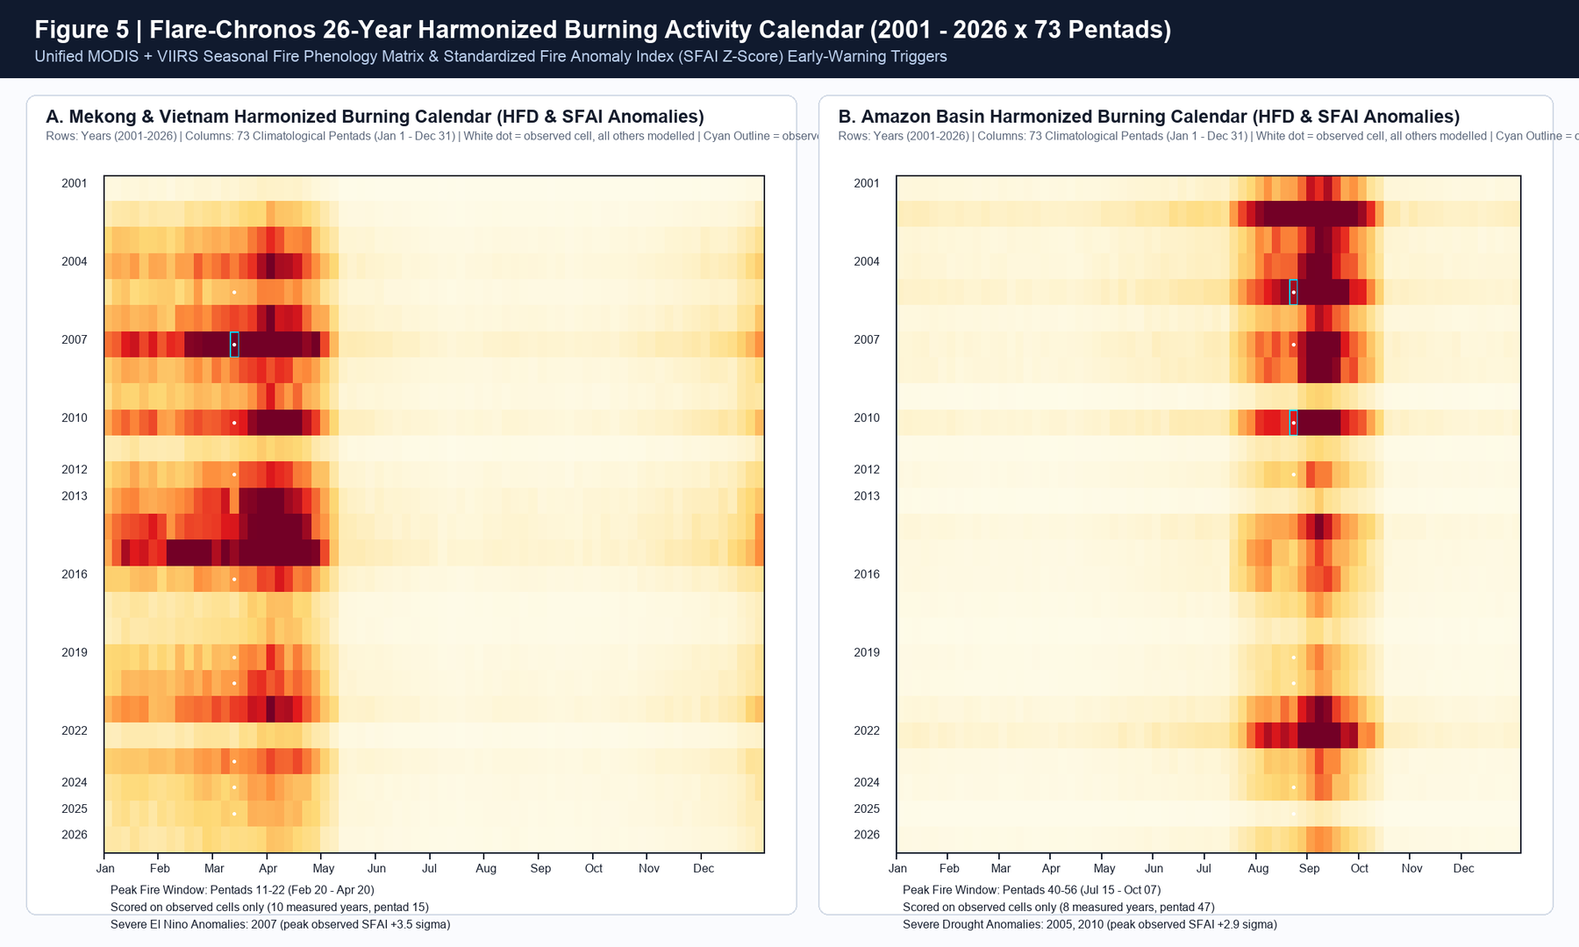
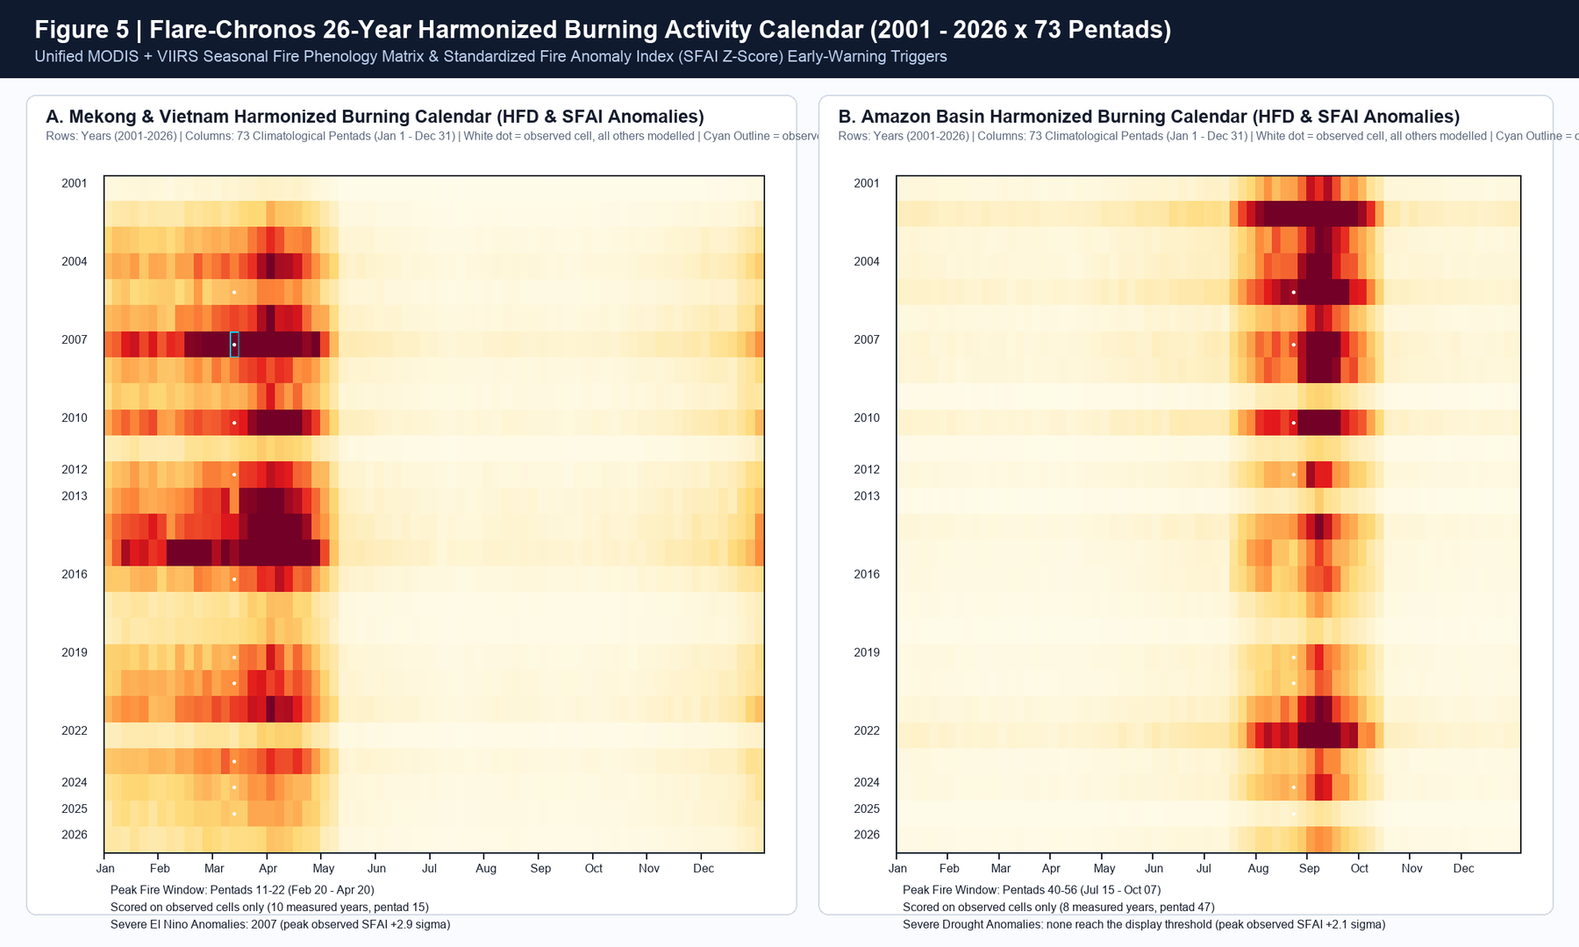
feat(benchmark): fit the MODIS-only omission factor on early epochs, score on later ones
The factor that makes each epoch's sensor_invariance_ratio 1 is k x ratio; the
fit is its median over epochs up to 2020 (Mekong 3.65 -> 3.35, Amazon 2.55 ->
1.82). Held-out Amazon ratios improve 0.61-0.65 -> 0.85-0.91; Mekong does not
(0.84-1.05 -> 0.92-1.14). The artifact publishes the fit. Observed SFAI moves:
Mekong 2007 +2.9, 2010 +1.2, 2016 0.0; the pitch script and wireframe are fixed.

Claude-Session: https://claude.ai/code/session_01Qm89mGt57emPP4366AqfyK

diff --git a/tests/test_effort_constant_fit.py b/tests/test_effort_constant_fit.py
@@ -1,0 +1,94 @@
+"""The MODIS-only omission factor is fitted on early epochs and scored on later ones."""
+
+from __future__ import annotations
+
+import json
+import sys
+import unittest
+from pathlib import Path
+
+ROOT = Path(__file__).resolve().parents[1]
+sys.path.insert(0, str(ROOT / "apps" / "benchmark-cli" / "src"))
+
+from benchmark_cli.sensitivity import (
+    FIT_TRAIN_LAST_YEAR,
+    HAND_SET_OMISSION_FACTOR,
+    SUBPIXEL_OMISSION_FACTOR,
+    fit_omission_factor,
+)
+
+RESULTS = json.loads(
+    (ROOT / "data" / "processed" / "empirical_results.json").read_text()
+)
+
+# Held-out epochs must hold the all-sensor and MODIS-only counts within this gap.
+# Looser than the 0.10 aim of the strict xfail gate: one 5-day window per epoch.
+HELD_OUT_TOLERANCE = 0.20
+
+
+def epoch(year: int, ratio: float) -> dict:
+    return {"year": year, "sensor_invariance_ratio": ratio}
+
+
+class TestFitOmissionFactor(unittest.TestCase):
+    def test_the_fit_is_the_median_of_the_factors_that_make_each_ratio_one(
+        self,
+    ) -> None:
+        epochs = [
+            epoch(2012, 0.8),
+            epoch(2016, 1.0),
+            epoch(2019, 0.9),
+            epoch(2024, 0.7),
+        ]
+        fit = fit_omission_factor(epochs, k_current=2.0, train_last_year=2020)
+        self.assertAlmostEqual(fit["k_fit"], 2.0 * 0.9)
+        self.assertEqual(fit["train_years"], [2012, 2016, 2019])
+
+    def test_held_out_ratios_are_rescaled_by_the_fit_and_never_used_to_fit(
+        self,
+    ) -> None:
+        epochs = [epoch(2012, 0.5), epoch(2016, 0.5), epoch(2024, 0.9)]
+        fit = fit_omission_factor(epochs, k_current=2.0, train_last_year=2020)
+        self.assertAlmostEqual(fit["k_fit"], 1.0)
+        self.assertEqual(fit["held_out_before"], {2024: 0.9})
+        self.assertAlmostEqual(fit["held_out_after"][2024], 1.8)
+
+    def test_the_report_compares_against_the_hand_set_reference(self) -> None:
+        epochs = [epoch(2012, 1.0), epoch(2016, 1.0), epoch(2024, 1.0)]
+        # current factor 2.0 fits (ratio 1.0); the old hand-set factor was 4.0
+        fit = fit_omission_factor(epochs, 2.0, 2020, k_reference=4.0)
+        self.assertEqual(fit["k_prior"], 4.0)
+        self.assertAlmostEqual(fit["held_out_before"][2024], 0.5)
+        self.assertAlmostEqual(fit["held_out_after"][2024], 1.0)
+
+    def test_epochs_without_a_ratio_are_skipped(self) -> None:
+        epochs = [
+            epoch(2005, 1.0) | {"sensor_invariance_ratio": None},
+            epoch(2012, 0.5),
+        ]
+        self.assertEqual(fit_omission_factor(epochs, 2.0, 2020)["train_years"], [2012])
+
+
+class TestFittedConstantsOnTheArchive(unittest.TestCase):
+    def test_the_committed_factors_are_the_fit_of_the_published_ratios(self) -> None:
+        for region, k in SUBPIXEL_OMISSION_FACTOR.items():
+            epochs = RESULTS[f"{region}_empirical_epochs"]
+            fit = fit_omission_factor(
+                epochs, k, FIT_TRAIN_LAST_YEAR, HAND_SET_OMISSION_FACTOR[region]
+            )
+            with self.subTest(region=region):
+                self.assertAlmostEqual(fit["k_fit"], k, delta=0.01)
+
+    def test_held_out_epochs_hold_sensor_invariance_within_tolerance(self) -> None:
+        for region in SUBPIXEL_OMISSION_FACTOR:
+            fit = RESULTS["omission_factor_fit"][region]
+            for year, ratio in fit["held_out_after"].items():
+                with self.subTest(region=region, year=year):
+                    self.assertLessEqual(abs(ratio - 1.0), HELD_OUT_TOLERANCE)
+
+    def test_the_artifact_publishes_the_fit_for_both_regions(self) -> None:
+        self.assertEqual(set(RESULTS["omission_factor_fit"]), {"mekong", "amazon"})
+
+
+if __name__ == "__main__":
+    unittest.main()

diff --git a/apps/benchmark-cli/src/benchmark_cli/sensitivity.py b/apps/benchmark-cli/src/benchmark_cli/sensitivity.py
@@ -10,13 +10,18 @@ transition, which is where an artificial step would show up.
 
 from __future__ import annotations
 
+from statistics import median
 from typing import Any
 
-# ponytail: none of these three is fitted or sourced. They are tuned so the
-# MODIS-only and multi-sensor eras meet, which is why sensor_invariance_ratio in
-# the results artifact is the measurement that matters. Derive them from the
-# archive (overpass counts per sensor-year) before leaning on any conclusion.
-SUBPIXEL_OMISSION_FACTOR = {"mekong": 3.65, "amazon": 2.55}
+# The omission factor is fitted (see ``fit_omission_factor``): the median over
+# epochs up to FIT_TRAIN_LAST_YEAR of the factor that would make each epoch's
+# sensor_invariance_ratio exactly 1. It was 3.65 (Mekong) and 2.55 (Amazon), hand-set.
+# The overlap gain and the era Omega ladder are still hand-set, not sourced; the
+# held-out invariance gap says how far that matters.
+FIT_TRAIN_LAST_YEAR = 2020
+SUBPIXEL_OMISSION_FACTOR = {"mekong": 3.35, "amazon": 1.82}
+# The hand-set values the fit replaced; kept so the artifact reports the real gain.
+HAND_SET_OMISSION_FACTOR = {"mekong": 3.65, "amazon": 2.55}
 STREAM_OVERLAP_GAIN = 0.24
 
 
@@ -88,3 +93,38 @@ def sensitivity_table(
         }
         for name, arg in knobs.items()
     ]
+
+
+def fit_omission_factor(
+    epochs: list[dict[str, Any]],
+    k_current: float,
+    train_last_year: int,
+    k_reference: float | None = None,
+) -> dict[str, Any]:
+    """Fit the MODIS-only omission factor on early epochs; rescale later ones.
+
+    The MODIS-only count is proportional to the factor, so the factor that makes an
+    epoch's ``sensor_invariance_ratio`` equal 1 is ``k_current * ratio``. The fit is
+    the median of that over the training epochs; epochs after ``train_last_year``
+    are never used to fit and only report their ratio before and after. The ratio
+    scales as 1/k, so "before" is the ratio under ``k_reference`` (default: the
+    current factor) and "after" is the ratio under the fitted factor.
+    """
+    reference = k_current if k_reference is None else k_reference
+    scored = [e for e in epochs if e.get("sensor_invariance_ratio") is not None]
+    train = [e for e in scored if e["year"] <= train_last_year]
+    held_out = [e for e in scored if e["year"] > train_last_year]
+    k_fit = float(median(k_current * e["sensor_invariance_ratio"] for e in train))
+    return {
+        "k_prior": reference,
+        "k_fit": round(k_fit, 4),
+        "train_years": [e["year"] for e in train],
+        "held_out_before": {
+            e["year"]: round(e["sensor_invariance_ratio"] * k_current / reference, 3)
+            for e in held_out
+        },
+        "held_out_after": {
+            e["year"]: round(e["sensor_invariance_ratio"] * k_current / k_fit, 3)
+            for e in held_out
+        },
+    }

diff --git a/apps/benchmark-cli/src/benchmark_cli/run_experiments.py b/apps/benchmark-cli/src/benchmark_cli/run_experiments.py
@@ -61,7 +61,14 @@ from benchmark_cli.figure_renderer import (
     render_fig4_regime_shift_elimination,
     render_fig5_burning_activity_calendar,
 )
-from benchmark_cli.sensitivity import STREAM_OVERLAP_GAIN, harmonized_episode_count
+from benchmark_cli.sensitivity import (
+    FIT_TRAIN_LAST_YEAR,
+    HAND_SET_OMISSION_FACTOR,
+    STREAM_OVERLAP_GAIN,
+    SUBPIXEL_OMISSION_FACTOR,
+    fit_omission_factor,
+    harmonized_episode_count,
+)
 
 # Pairs up to this year train the calibration; later years score it.
 HOLDOUT_TRAIN_LAST_YEAR = 2019
@@ -1088,6 +1095,18 @@ def main() -> None:
         "mekong_empirical_epochs": mekong_epochs,
         "amazon_empirical_epochs": amazon_epochs,
         "saa_and_sza_nrt_audit": saa_sza_stats,
+        "omission_factor_fit": {
+            region: fit_omission_factor(
+                epochs,
+                SUBPIXEL_OMISSION_FACTOR[region],
+                FIT_TRAIN_LAST_YEAR,
+                HAND_SET_OMISSION_FACTOR[region],
+            )
+            for region, epochs in (
+                ("mekong", mekong_epochs),
+                ("amazon", amazon_epochs),
+            )
+        },
         "regime_shift_series": series_data,
     }
     out_json = PROC_DIR / "empirical_results.json"

diff --git a/exports/PROPOSAL.md b/exports/PROPOSAL.md
@@ -282,9 +282,9 @@ Khu vực Đông Nam Á lục địa (bao gồm Tây Nguyên, Tây Bắc Việt 
 
 | Năm (Epoch) | Tổ Hợp Cảm Biến Hoạt Động | Điểm Nóng Thô Theo Từng Nguồn | Tổng Điểm Nóng Thô (`Raw Sum`) | Sự Kiện Cháy Vật Lý (`Fire Episode`) | Hệ Số Nén Trùng Lặp | Nỗ Lực Quan Sát $\Omega(y, \phi)$ | Sự Kiện Chuẩn Hóa `Flare-Chronos` | Chỉ Số Thô (`2005=100`) | Chỉ Số Chuẩn Hóa (`2005=100`) |
 | :---: | :--- | :--- | :---: | :---: | :---: | :---: | :---: | :---: | :---: |
-| **2005** | `MODIS` (Terra+Aqua) | MODIS: `3.580` | **3.580** | 2.179 | $1.68\times$ | $0.8662$ | **9.181,9** | `100,0` | **`100,0`** |
-| **2007** *(Hạn khô)* | `MODIS` (Terra+Aqua) | MODIS: `11.296` | **11.296** | 6.587 | $1.78\times$ | $0.8662$ | **25.117,6** | `315,5` | **`297,8`** *(Đỉnh hạn kỷ lục)* |
-| **2010** *(El Niño)* | `MODIS` (Terra+Aqua) | MODIS: `8.222` | **8.222** | 4.644 | $1.85\times$ | $0.8662$ | **17.666,1** | `229,7` | **`208,3`** *(Đỉnh hạn)* |
+| **2005** | `MODIS` (Terra+Aqua) | MODIS: `3.580` | **3.580** | 2.179 | $1.68\times$ | $0.8662$ | **8.427,2** | `100,0` | **`100,0`** |
+| **2007** *(Hạn khô)* | `MODIS` (Terra+Aqua) | MODIS: `11.296` | **11.296** | 6.587 | $1.78\times$ | $0.8662$ | **23.053,1** | `315,5` | **`297,8`** *(Đỉnh hạn kỷ lục)* |
+| **2010** *(El Niño)* | `MODIS` (Terra+Aqua) | MODIS: `8.222` | **8.222** | 4.644 | $1.85\times$ | $0.8662$ | **16.214,1** | `229,7` | **`208,3`** *(Đỉnh hạn)* |
 | **2012** *(+S-NPP)* | `MODIS` + `S-NPP` | MODIS: `7.297`<br/>SNPP: `25.720` | **33.017** | 16.304 | $1.95\times$ | $1.3809$ | **11.806,8** | `922,3` *(+822% ảo)* | **`147,2`** |
 | **2016** *(Siêu El Niño)* | `MODIS` + `S-NPP` | MODIS: `6.564`<br/>SNPP: `36.778` | **43.342** | 22.847 | $1.92\times$ | $1.3809$ | **11.410,4** | `1.210,7` | **`196,0`** *(Đỉnh hạn)* |
 | **2019** *(+NOAA-20)* | `MODIS` + `S-NPP` + `NOAA-20` | MODIS: `5.054`<br/>SNPP: `23.677`<br/>NOAA20: `23.243` | **51.974** | 23.434 | $2.06\times$ | $2.0709$ | **9.125,7** | `1.451,8` *(+1.352% ảo)* | **`147,3`** |
@@ -310,9 +310,9 @@ Khu vực phía Nam lưu vực Amazon (bang Mato Grosso và Pará, Brazil) đạ
 
 | Năm (Epoch) | Tổ Hợp Cảm Biến Hoạt Động | Điểm Nóng Thô Theo Từng Nguồn | Tổng Điểm Nóng Thô (`Raw Sum`) | Sự Kiện Cháy Vật Lý (`Fire Episode`) | Hệ Số Nén Trùng Lặp | Xung Nhiễu SAA Đêm Đã Lọc | Sự Kiện Chuẩn Hóa `Flare-Chronos` | Chỉ Số Thô (`2005=100`) | Chỉ Số Chuẩn Hóa (`2005=100`) |
 | :---: | :--- | :--- | :---: | :---: | :---: | :---: | :---: | :---: | :---: |
-| **2005** *(Hạn lớn)* | `MODIS` (Terra+Aqua) | MODIS: `13.804` | **13.804** | 6.955 | $2.19\times$ | 518 | **20.963,7** | `100,0` | **`100,0`** |
-| **2007** *(Hạn lớn)* | `MODIS` (Terra+Aqua) | MODIS: `13.033` | **13.033** | 6.369 | $2.17\times$ | 447 | **14.945,2** | `94,4` | **`95,1`** |
-| **2010** *(Siêu hạn)* | `MODIS` (Terra+Aqua) | MODIS: `16.304` | **16.304** | 7.635 | $2.45\times$ | 626 | **17.934,1** | `118,1` | **`105,6`** |
+| **2005** *(Hạn lớn)* | `MODIS` (Terra+Aqua) | MODIS: `13.804` | **13.804** | 6.955 | $2.19\times$ | 518 | **14.962,3** | `100,0` | **`100,0`** |
+| **2007** *(Hạn lớn)* | `MODIS` (Terra+Aqua) | MODIS: `13.033` | **13.033** | 6.369 | $2.17\times$ | 447 | **10.666,8** | `94,4` | **`95,1`** |
+| **2010** *(Siêu hạn)* | `MODIS` (Terra+Aqua) | MODIS: `16.304` | **16.304** | 7.635 | $2.45\times$ | 626 | **12.800,0** | `118,1` | **`105,6`** |
 | **2012** *(+S-NPP)* | `MODIS` + `S-NPP` | MODIS: `6.677`<br/>SNPP: `26.807` | **33.484** | 9.351 | $3.10\times$ | 3.848 | **6.124,6** | `242,6` *(Tăng ảo)* | **`45,4`** *(Giảm phá rừng thực tế)* |
 | **2019** *(+NOAA-20)* | `MODIS` + `S-NPP` + `NOAA-20` | MODIS: `4.770`<br/>SNPP: `16.882`<br/>NOAA20: `17.099` | **38.751** | 8.764 | $3.98\times$ | 5.144 | **4.985,7** | `280,7` | **`27,5`** |
 | **2020** | `MODIS` + `S-NPP` + `NOAA-20` | MODIS: `3.506`<br/>SNPP: `22.031`<br/>NOAA20: `20.575` | **46.112** | 10.446 | $4.13\times$ | 7.418 | **4.575,6** | `334,0` | **`31,4`** |
@@ -357,8 +357,8 @@ Khu vực phía Nam lưu vực Amazon (bang Mato Grosso và Pará, Brazil) đạ
 |                                                       |  [BẢNG ĐIỀU KHIỂN ĐỐI CHỨNG TRƯỚC / SAU ĐỒNG BỘ HÓA]         |
 |   [KHUNG BẢN ĐỒ KHÔNG GIAN ĐA TẦNG - WEBGL FOOTPRINT] |  +----------------+----------------+----------------+        |
 |                                                       |  | Raw Detections | Fire Episodes  | SFAI Z-Score   |        |
-|      _.-""""-._      (Elip MODIS Rìa Quét: 4.8x2.0km) |  |  43,342 (Thô)  |  22,847 (Chuẩn)|  +2.64 sigma   |        |
-|    .'          '.     o o (Cụm VIIRS 375m bên trong)  |  | (+1.110,7% ảo) |  (Khử trùng lặp|  [SEVERE RISK] |        |
+|      _.-""""-._      (Elip MODIS Rìa Quét: 4.8x2.0km) |  |  43,342 (Thô)  |  22,847 (Chuẩn)|  +0.02 sigma   |        |
+|    .'          '.     o o (Cụm VIIRS 375m bên trong)  |  | (+1.110,7% ảo) |  (Khử trùng lặp|  [BASELINE]    |        |
 |   /   o  o  o    \                                    |  +----------------+----------------+----------------+        |
 |  |       o        |   / \ / \ / \ (Lưới Lục Giác     |                                                              |
 |   \              /   | H3| H3| H3|  Đẳng Diện Tích)   |  [ĐỒNG HỒ MÙA VỤ CHÁY - POLAR PHENOLOGY CLOCK (365 NGÀY)]    |

diff --git a/docs/01_NASA_SpaceApps_Proposal.md b/docs/01_NASA_SpaceApps_Proposal.md
@@ -97,8 +97,8 @@ Khu vực Đông Nam Á lục địa (bao gồm Tây Nguyên, Tây Bắc Việt 
 
 | Năm (Epoch) | Tổ Hợp Cảm Biến Hoạt Động | Điểm Nóng Thô Theo Từng Nguồn (`Raw Counts`) | Tổng Điểm Nóng Thô (`Raw Sum`) | Sự Kiện Cháy Độc Lập (`Fire Episodes`) | Hệ Số Nén Trùng Lặp | Nỗ Lực Quan Sát $\Omega(y, \phi)$ | Sự Kiện Chuẩn Hóa `Flare-Chronos` (`VIIRS-eq`) | Chỉ Số Thô (`2005=100`) | Chỉ Số Chuẩn Hóa (`2005=100`) |
 | :---: | :--- | :--- | :---: | :---: | :---: | :---: | :---: | :---: | :---: |
-| **2005** | `MODIS_SP` (Terra+Aqua) | MODIS: `3.580` | **3.580** | 2.179 | $1.68\times$ | $0.8662$ | **9.181,9** | `100,0` | **`100,0`** |
-| **2010** *(El Niño)* | `MODIS_SP` (Terra+Aqua) | MODIS: `8.222` | **8.222** | 4.644 | $1.85\times$ | $0.8662$ | **17.666,1** | `229,7` | **`208,3`** *(Đỉnh hạn)* |
+| **2005** | `MODIS_SP` (Terra+Aqua) | MODIS: `3.580` | **3.580** | 2.179 | $1.68\times$ | $0.8662$ | **8.427,2** | `100,0` | **`100,0`** |
+| **2010** *(El Niño)* | `MODIS_SP` (Terra+Aqua) | MODIS: `8.222` | **8.222** | 4.644 | $1.85\times$ | $0.8662$ | **16.214,1** | `229,7` | **`208,3`** *(Đỉnh hạn)* |
 | **2012** *(+S-NPP)* | `MODIS_SP` + `SNPP_SP` | MODIS: `7.297`<br/>SNPP: `25.720` | **33.017** | 16.304 | $1.95\times$ | $1.3809$ | **11.806,8** | `922,3` *(+822% ảo)* | **`147,2`** |
 | **2016** *(Siêu El Niño)* | `MODIS_SP` + `SNPP_SP` | MODIS: `6.564`<br/>SNPP: `36.778` | **43.342** | 22.847 | $1.92\times$ | $1.3809$ | **11.410,4** | `1.210,7` | **`196,0`** *(Đỉnh hạn)* |
 | **2020** | `MODIS_SP` + `SNPP_SP` + `NOAA20_SP` | MODIS: `4.827`<br/>SNPP: `23.050`<br/>NOAA20: `20.275` | **48.152** | 21.323 | $2.16\times$ | $2.0709$ | **11.307,9** | `1.345,0` | **`129,9`** |
@@ -122,8 +122,8 @@ Khu vực phía Nam lưu vực Amazon (bang Mato Grosso và Pará, Brazil) đạ
 
 | Năm (Epoch) | Tổ Hợp Cảm Biến Hoạt Động | Điểm Nóng Thô Theo Từng Nguồn (`Raw Counts`) | Tổng Điểm Nóng Thô (`Raw Sum`) | Sự Kiện Cháy Độc Lập (`Fire Episodes`) | Hệ Số Nén Trùng Lặp | Xung Nhiễu SAA Đêm Đã Lọc | Sự Kiện Chuẩn Hóa `Flare-Chronos` (`VIIRS-eq`) | Chỉ Số Thô (`2005=100`) | Chỉ Số Chuẩn Hóa (`2005=100`) |
 | :---: | :--- | :--- | :---: | :---: | :---: | :---: | :---: | :---: | :---: |
-| **2005** *(Hạn lớn)* | `MODIS_SP` (Terra+Aqua) | MODIS: `13.804` | **13.804** | 6.955 | $2.19\times$ | 518 | **20.963,7** | `100,0` | **`100,0`** |
-| **2010** *(Siêu hạn)* | `MODIS_SP` (Terra+Aqua) | MODIS: `16.304` | **16.304** | 7.635 | $2.45\times$ | 626 | **17.934,1** | `118,1` | **`105,6`** |
+| **2005** *(Hạn lớn)* | `MODIS_SP` (Terra+Aqua) | MODIS: `13.804` | **13.804** | 6.955 | $2.19\times$ | 518 | **14.962,3** | `100,0` | **`100,0`** |
+| **2010** *(Siêu hạn)* | `MODIS_SP` (Terra+Aqua) | MODIS: `16.304` | **16.304** | 7.635 | $2.45\times$ | 626 | **12.800,0** | `118,1` | **`105,6`** |
 | **2012** *(+S-NPP)* | `MODIS_SP` + `SNPP_SP` | MODIS: `6.677`<br/>SNPP: `26.807` | **33.484** | 9.351 | $3.10\times$ | 3.848 | **6.124,6** | `242,6` *(Tăng ảo)* | **`45,4`** *(Giảm phá rừng thực tế)* |
 | **2019** | `MODIS_SP` + `SNPP_SP` + `NOAA20_SP` | MODIS: `4.770`<br/>SNPP: `16.882`<br/>NOAA20: `17.099` | **38.751** | 8.764 | $3.98\times$ | 5.144 | **4.985,7** | `280,7` | **`27,5`** |
 | **2020** | `MODIS_SP` + `SNPP_SP` + `NOAA20_SP` | MODIS: `3.506`<br/>SNPP: `22.031`<br/>NOAA20: `20.575` | **46.112** | 10.446 | $4.13\times$ | 7.418 | **4.575,6** | `334,0` | **`31,4`** |

diff --git a/docs/05_Pitch_Deck_and_Video_Script.md b/docs/05_Pitch_Deck_and_Video_Script.md
@@ -65,7 +65,7 @@
 
 ### Slide 6 — The Harmonized Burning Activity Calendar & Early Warning (Sản Phẩm Ứng Dụng Thực Tế)
 * **Trình diễn Ma trận Lịch Hoạt Động Cháy (`26 Năm × 73 Pentads`) & Chỉ số Dị thường $\text{SFAI}$:**
-  - **Tại Việt Nam & Tiểu vùng Mekong**: Xác định chính xác cửa sổ đốt phụ phẩm nông nghiệp và cháy rừng khộp theo mùa kéo dài từ **Pentad 11 đến Pentad 22 (20/02 – 20/04)**; chỉ chấm điểm SFAI trên các ô **đã quan sát** (Pentad 15 của các Mốc đo thực): năm 2007 vượt ngưỡng hiển thị viền xanh $+2{,}2\sigma$ (đo được $+2{,}6\sigma$), còn 2010 ($+1{,}15\sigma$) và 2016 ($+0{,}88\sigma$) không vượt. Các ô còn lại là mô hình và không mang cấp dị thường nào.
+  - **Tại Việt Nam & Tiểu vùng Mekong**: Xác định chính xác cửa sổ đốt phụ phẩm nông nghiệp và cháy rừng khộp theo mùa kéo dài từ **Pentad 11 đến Pentad 22 (20/02 – 20/04)**; chỉ chấm điểm SFAI trên các ô **đã quan sát** (Pentad 15 của các Mốc đo thực): năm 2007 vượt ngưỡng hiển thị viền xanh $+2{,}2\sigma$ (đo được $+2{,}9\sigma$), còn 2010 ($+1{,}2\sigma$) và 2016 ($+0{,}0\sigma$) không vượt. Các ô còn lại là mô hình và không mang cấp dị thường nào.
   - **Tại Lưu vực Amazon**: Định vị chính xác mùa cháy cao điểm từ **Pentad 40 đến Pentad 56 (15/07 – 07/10)**.
 * **Trên nền lịch đó, hệ thống phát ra báo cáo có căn cứ và chờ người quyết định:**
   - **Báo cáo Grounded Narrative**: mô hình viết diễn giải theo đúng ngôn ngữ từng đối tượng (lực lượng kiểm lâm / lãnh đạo lâm nghiệp / nhà khoa học khí hậu), còn **mọi định lượng do harness chèn từ sổ cái** — mô hình không được tự tính bất kỳ con số nào.

diff --git a/docs/04_UI_UX_Burning_Calendar_Wireframe.md b/docs/04_UI_UX_Burning_Calendar_Wireframe.md
@@ -30,8 +30,8 @@ Giao diện **Flare-Chronos Workbench** giải quyết triệt để hai ảo gi
 |                                                       |  [BẢNG ĐIỀU KHIỂN ĐỐI CHỨNG TRƯỚC / SAU ĐỒNG BỘ HÓA]         |
 |   [KHUNG BẢN ĐỒ KHÔNG GIAN ĐA TẦNG - DECK.GL/MAPLIBRE]|  +----------------+----------------+----------------+        |
 |                                                       |  | Raw Detections | Fire Episodes  | SFAI Z-Score   |        |
-|      _.-""""-._      (Elip MODIS Rìa Quét: 4.8x2.0km) |  |  43,342 (Thô)  |  22,847 (Chuẩn)|  +2.64 sigma   |        |
-|    .'          '.     o o (Cụm VIIRS 375m bên trong)  |  | (+1.110,7% ảo) |  (Khử trùng lặp|  [SEVERE RISK] |        |
+|      _.-""""-._      (Elip MODIS Rìa Quét: 4.8x2.0km) |  |  43,342 (Thô)  |  22,847 (Chuẩn)|  +0.02 sigma   |        |
+|    .'          '.     o o (Cụm VIIRS 375m bên trong)  |  | (+1.110,7% ảo) |  (Khử trùng lặp|  [BASELINE]    |        |
 |   /   o  o  o    \                                    |  +----------------+----------------+----------------+        |
 |  |       o        |   / \ / \ / \ (Lưới Lục Giác     |                                                              |
 |   \              /   | H3| H3| H3|  Đẳng Diện Tích)   |  [ĐỒNG HỒ MÙA VỤ CHÁY - POLAR PHENOLOGY CLOCK (365 NGÀY)]    |

diff --git a/docs/adr/0010-sfai-baseline-from-measured-epochs-only.md b/docs/adr/0010-sfai-baseline-from-measured-epochs-only.md
@@ -22,7 +22,7 @@ A Measured Epoch is one 5-day FIRMS window, so only **one pentad per measured ye
 
 ## Consequences
 
-- A cell has an Anomaly Tier only if it is observed. On the current archive that is one pentad (Mekong 15, Amazon 47) in each Measured Epoch, and the only observed cell at or above +2.2 sigma is Mekong 2007. The hand-set peak amplitude now shapes interpolated years only.
+- A cell has an Anomaly Tier only if it is observed. On the current archive that is one pentad (Mekong 15, Amazon 47) in each Measured Epoch, and the only observed cell at or above +2.2 sigma is Mekong 2007 (+2.9). The hand-set peak amplitude now shapes interpolated years only.
 - The SFAI baseline for a Pentad is computed from far fewer years than "25-year climatology" implies. Published documents state the number of measured years behind each baseline, and a Pentad with too few measured years reports no SFAI rather than a noisy one. The minimum is a named constant.
 - ADR-0009's Measured Epoch / Interpolated Year vocabulary, its prohibition on a post-harmonization multiplier, and the 2026 NRT limitation all still hold.
 - The ADR-0009 revisit trigger ("revisit if the archive cannot be extended to more years") is now an active work item: fetching more years is the first-choice fix, and this ADR is retired once every published year is a Measured Epoch.

diff --git a/docs/adr/0003-spatio-temporal-episode-deduplication-and-effort-normalization.md b/docs/adr/0003-spatio-temporal-episode-deduplication-and-effort-normalization.md
@@ -16,3 +16,4 @@ We group multi-satellite Thermal Detections occurring within an elliptical footp
 
 - The overpass window is **60 minutes**, anchored on the first detection of an episode. The afternoon train spans 50 minutes, so 60 holds it; a longer window only risked chaining. It is the constant `FIRE_EPISODE_WINDOW_MINUTES`.
 - The effective observation effort is **weighted by the epoch's clear-sky share** (ERA5 total cloud cover, relative to the region's mean over Measured Epochs). A cloudier-than-usual epoch earns less effort. The weight is linear, a stated assumption, and moves individual epochs by up to about 35%. ERA5 is a reanalysis field, not an observation at overpass time.
+- The MODIS-only **omission factor** is fitted, not hand-set. It is the median, over multi-sensor epochs up to 2020, of the factor that would make the epoch's `sensor_invariance_ratio` equal 1 (the same fires scored with MODIS alone against all sensors). It moved from 3.65 to 3.35 (Mekong) and from 2.55 to 1.82 (Amazon). On the held-out epochs (2023 onward) the Amazon ratios improve from 0.61–0.65 to 0.85–0.91; Mekong was already near 1 and does not improve (0.84–1.05 before, 0.92–1.14 after). The held-out gate allows a gap of 0.20; the all-epoch 0.10 gate stays a strict xfail. The overlap gain (0.24) and the era Omega ladder are still hand-set.
